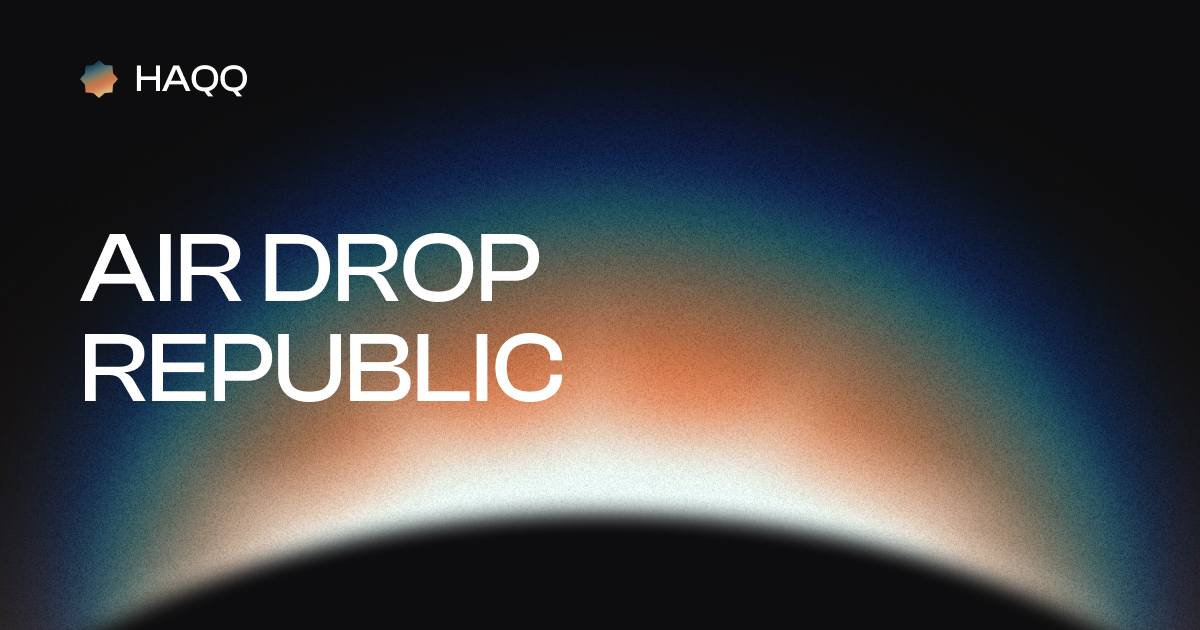
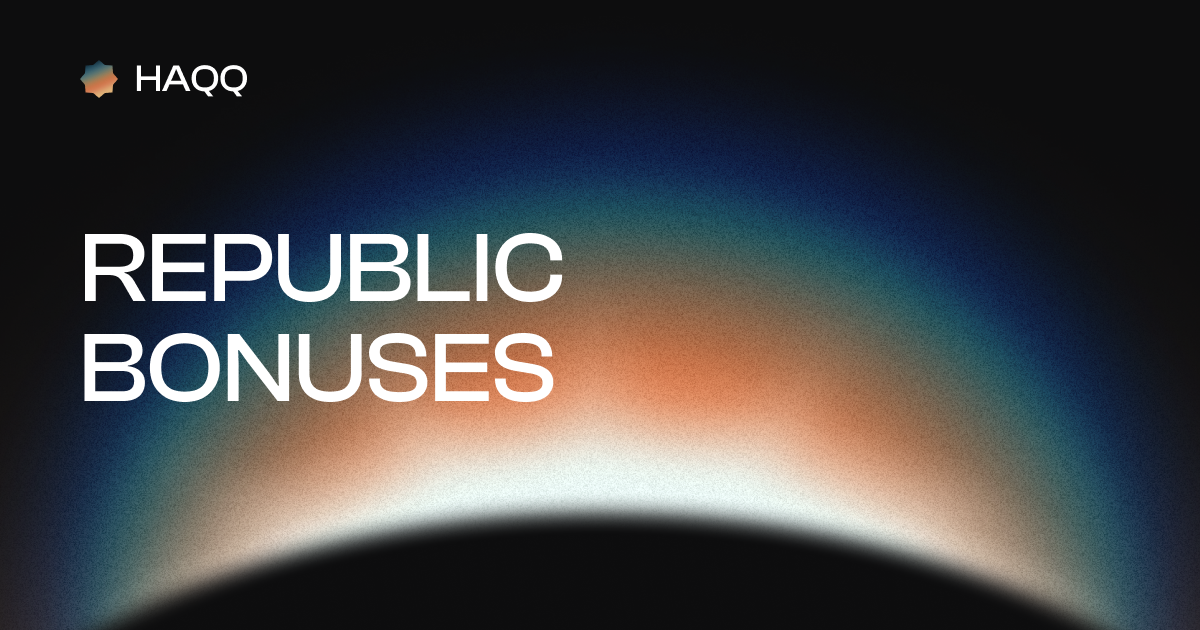
feat: new image for sharing

Changed region(s): [[0.0617, 0.3619, 0.4933, 0.4825], [0.0617, 0.5127, 0.4933, 0.6635]]

diff --git a/apps/marketplace/app/layout.tsx b/apps/marketplace/app/layout.tsx
@@ -21,12 +21,12 @@ export const metadata: Metadata = {
     description: 'Approve your new airdrop address',
     type: 'website',
     url: DOMAIN,
-    images: `${DOMAIN}/shared-bg.jpg`,
+    images: `${DOMAIN}/shared-bg.png`,
     siteName: 'Republic Bonuses',
   },
   twitter: {
     site: DOMAIN,
-    images: `${DOMAIN}/shared-bg.jpg`,
+    images: `${DOMAIN}/shared-bg.png`,
     title: 'Republic Bonuses',
     description: 'Approve your new airdrop address',
   },
